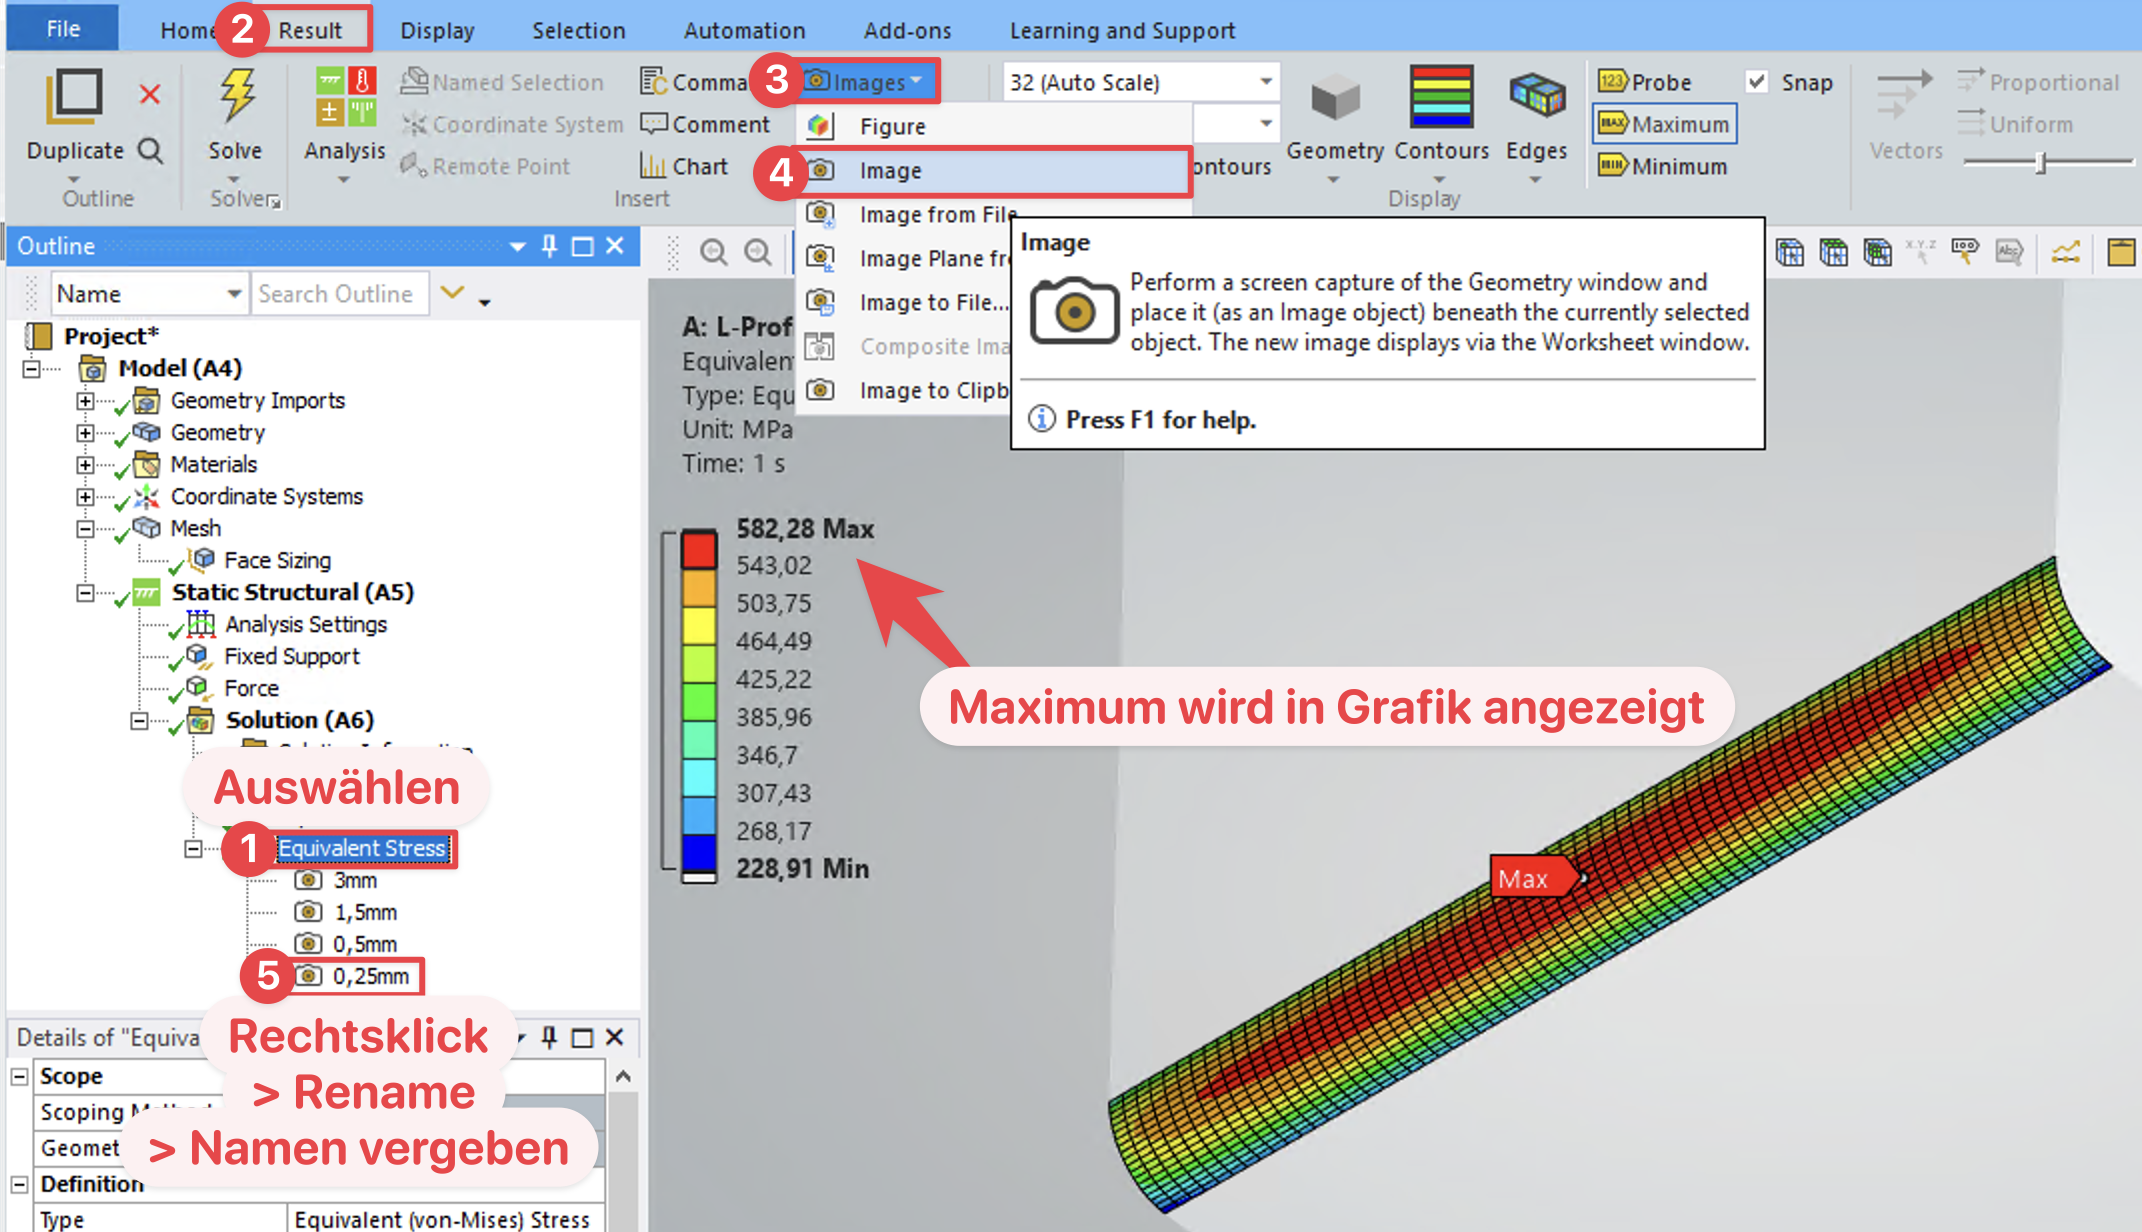
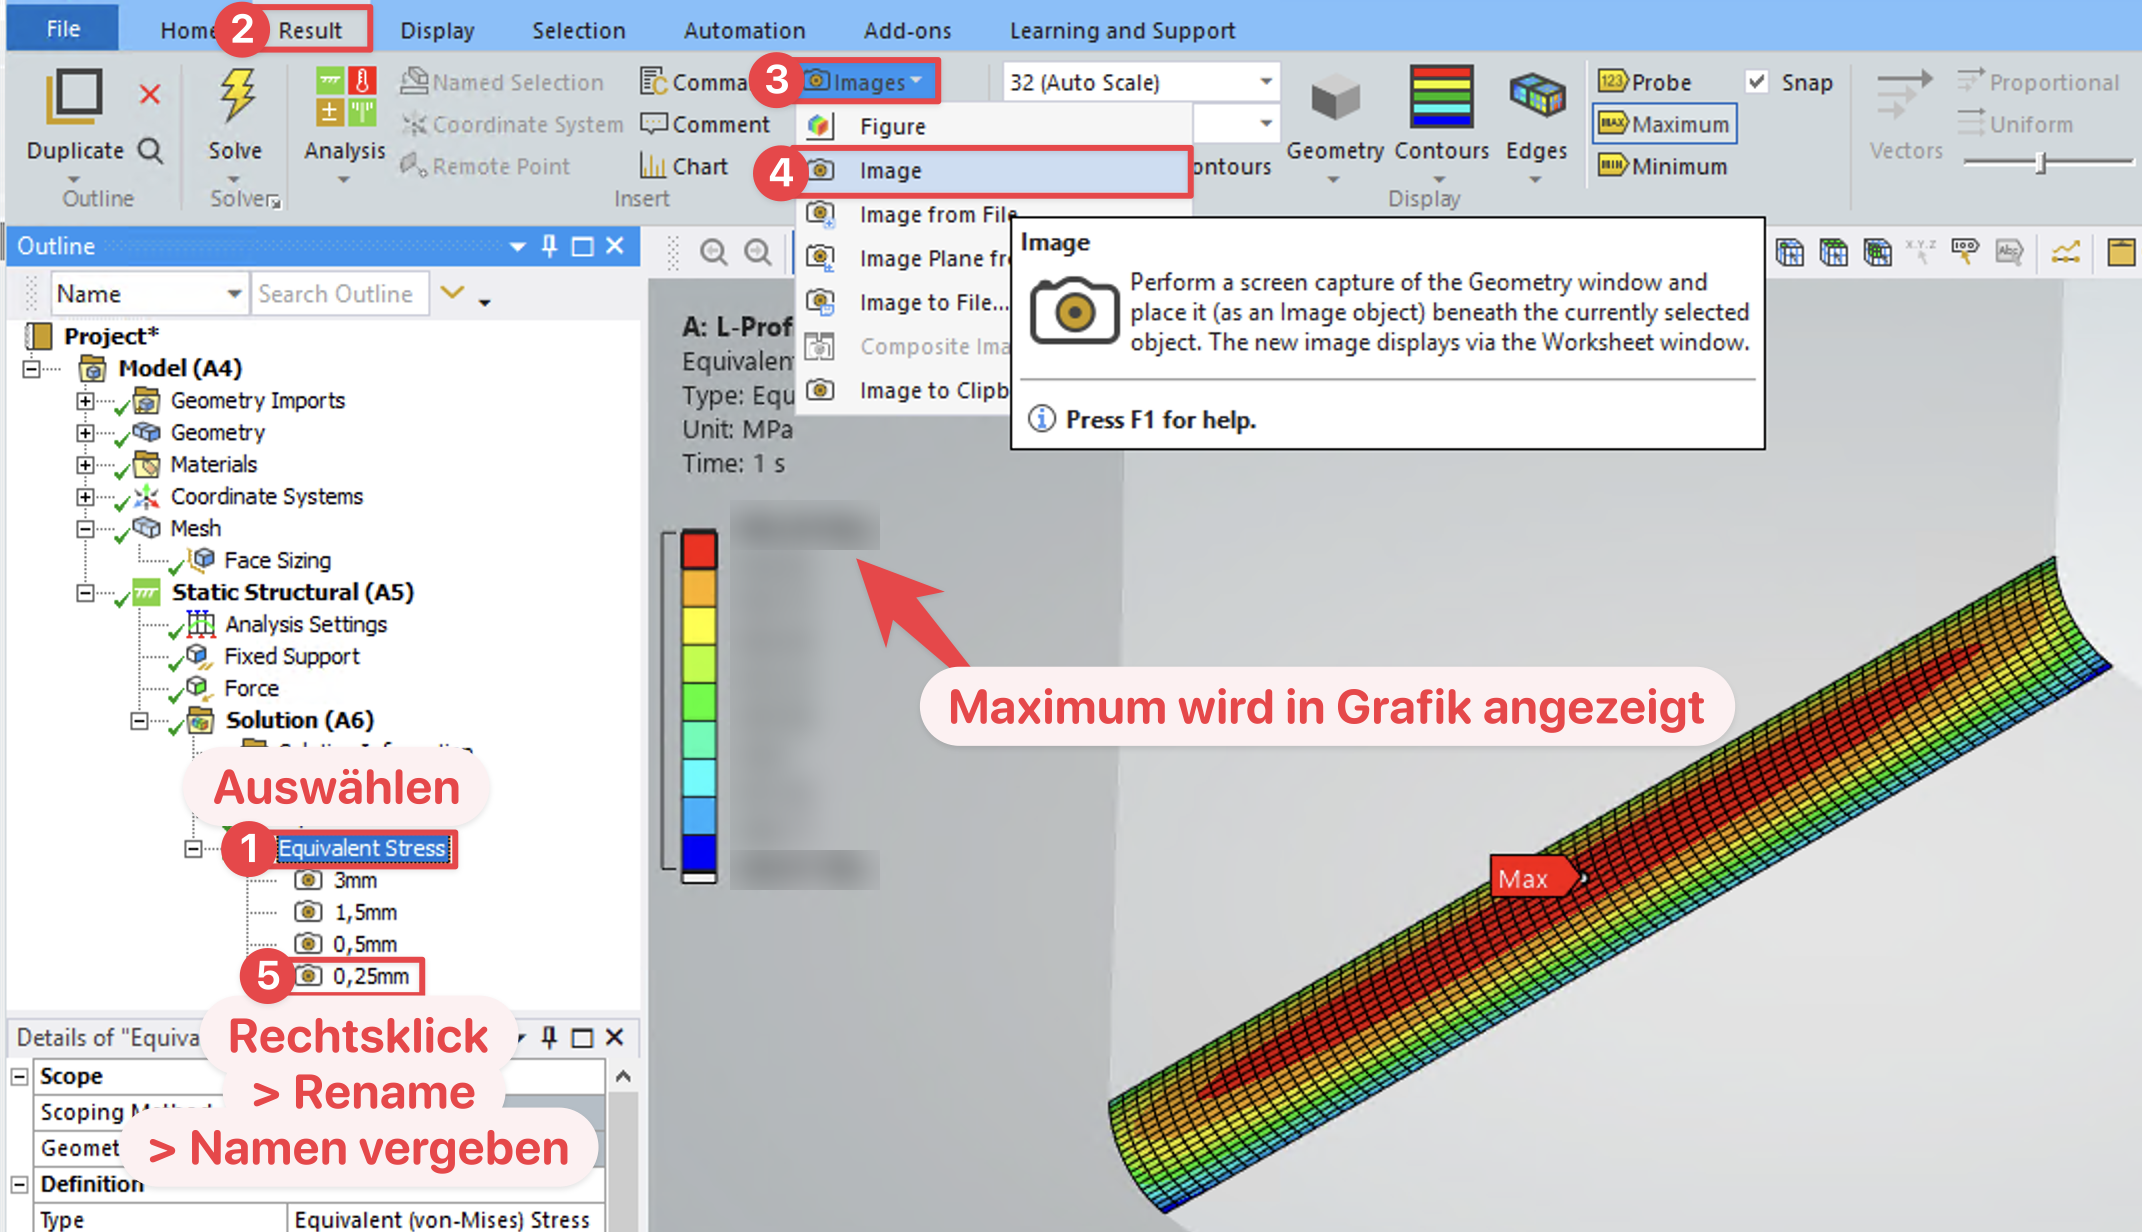
P3: Werte aus 2024 R2 in den Bildern von Ergebnis-Tracking und Diskussion unkenntlich gemacht, Schilder auf 3 % und 31 % (SM-8)

Changed region(s): [[0.3389, 0.401, 0.4006, 0.7403]]

diff --git a/docs/P3_Vernetzung/02_ANSYS_Umsetzung/Diskussion.md b/docs/P3_Vernetzung/02_ANSYS_Umsetzung/Diskussion.md
@@ -41,8 +41,7 @@ Somit ist **nicht nur die Netzgröße**, sondern auch der **Spannungsgradient in
 Hier mal am Beispiel von 3mm und 0,25mm die normalen Spannungswerte (DisplayOption: averaged) und die Nodal Fraction:
 
 <figure style="text-align:center;">
-    <img src="../images/Averaged_vs_NodalFraction.excalidraw.png" alt="Averaged vs NodalFraction" width="1100">
-    <figcaption>Bilder aus ANSYS 2024 R2, die Werte unterscheiden sich etwas von der Tabelle unten (2025 R2).</figcaption>
+    <img src="../images/Averaged_ohneWerte.excalidraw.png" alt="Averaged vs NodalFraction" width="1100">
 </figure>
 
 Hier nun alle Werte für unser Beispiel:

diff --git a/docs/P3_Vernetzung/02_ANSYS_Umsetzung/Ergebnis_Tracking.md b/docs/P3_Vernetzung/02_ANSYS_Umsetzung/Ergebnis_Tracking.md
@@ -87,5 +87,4 @@ Dazu die Haken bei `Nodes`/`Elements` entfernen und stattdessen z.&nbsp;B. `Maxi
 
 <figure style="text-align:center;">
     <img src="../images/Result_Tracking.png" alt="Result Tracking" width="1100">
-    <figcaption>Bild aus ANSYS 2024 R2, die Werte unterscheiden sich etwas von Ihren.</figcaption>
 </figure>
